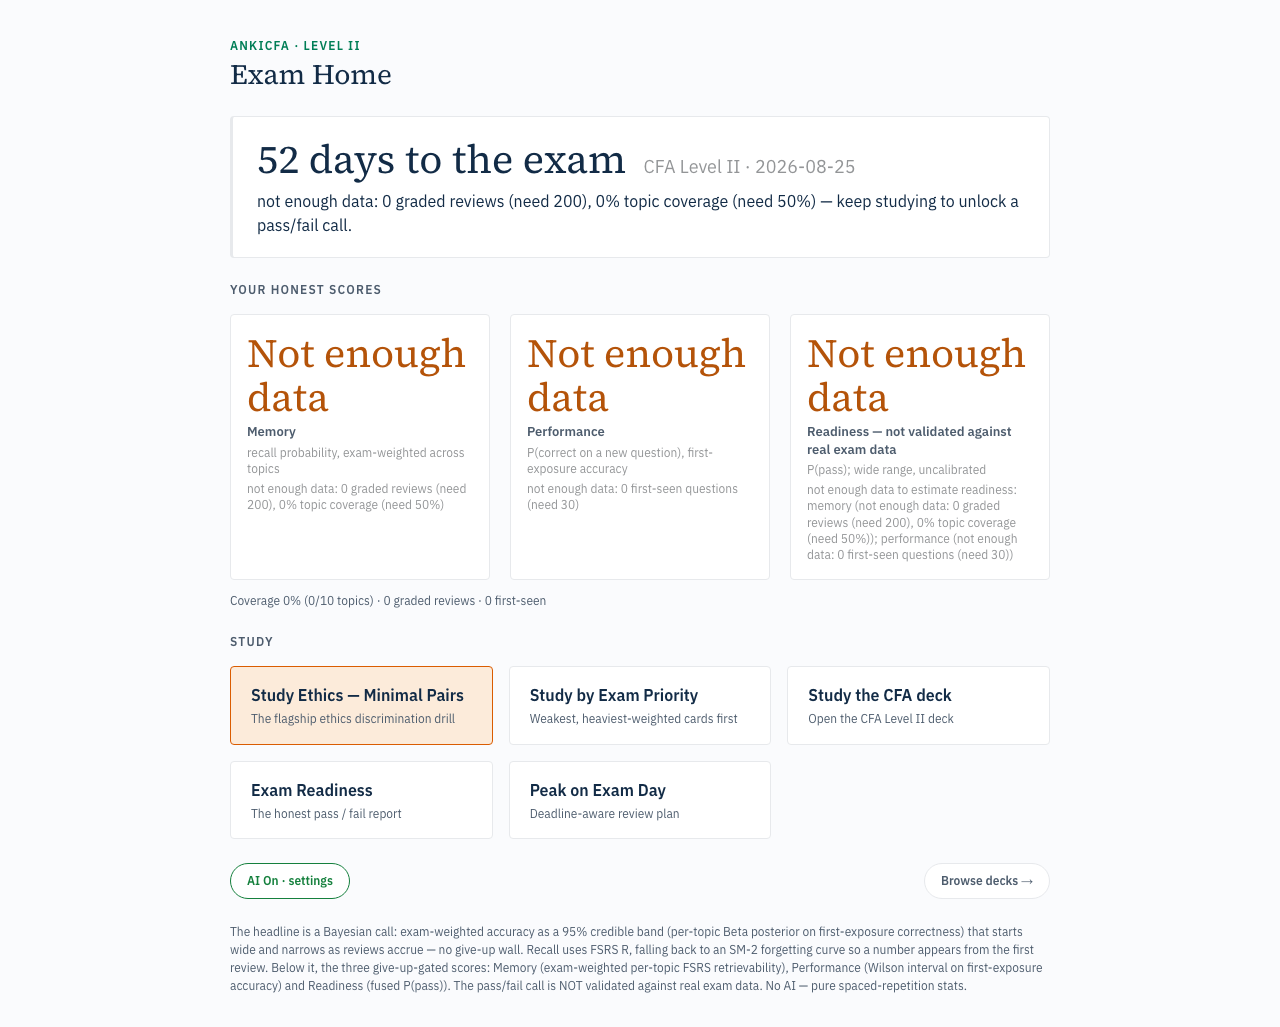
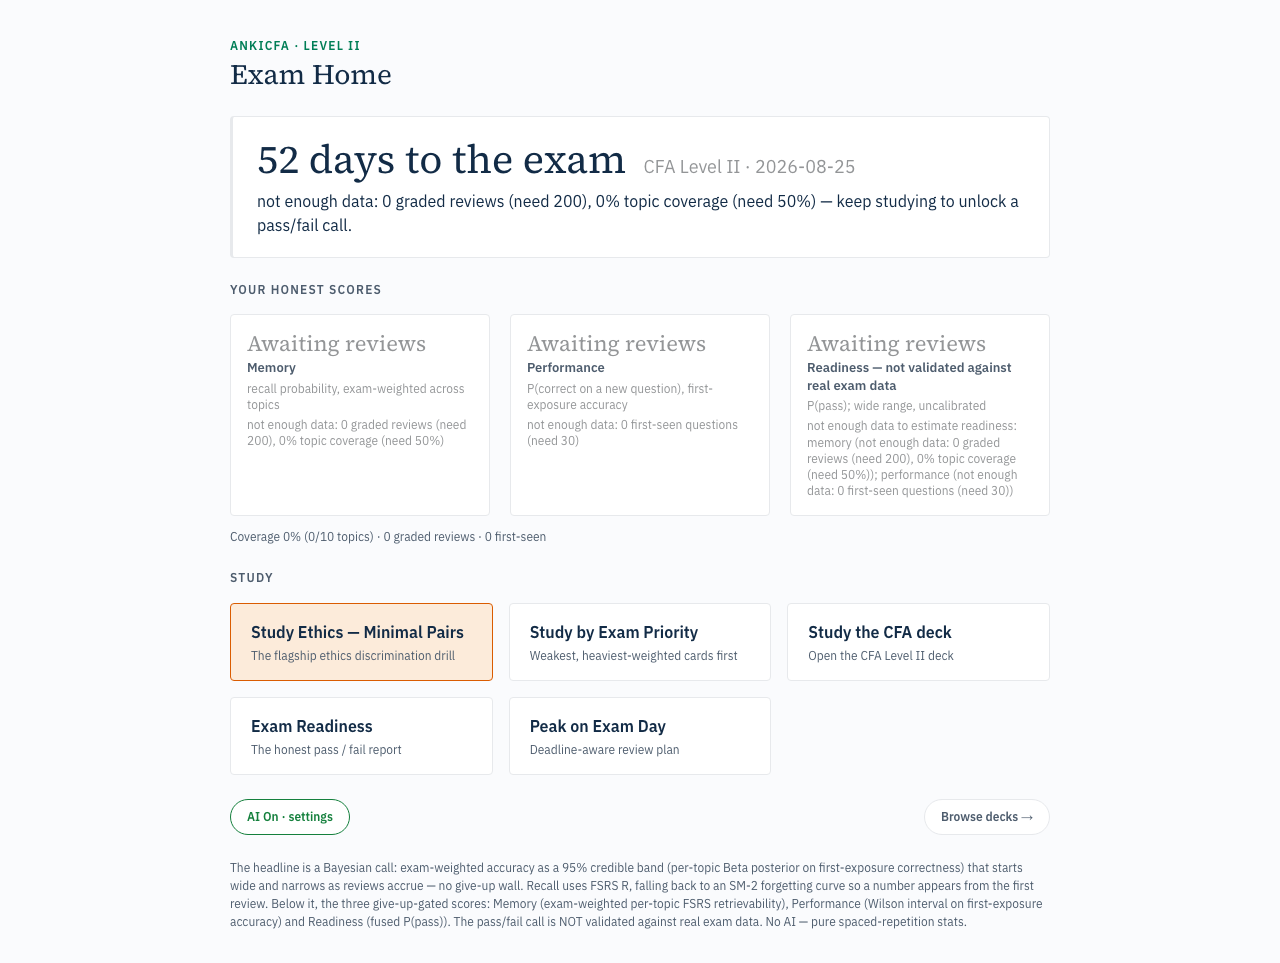
gnhf 26: Resolved all five logged Phase-B Pass-1 desktop MAJOR UI issues (abstain-state hierarchy inversion + warn-orange color collision) by making the empty state a calm muted-grey "Awaiting reviews" said once in the hero, with the peach primary CTA as the single accent; re-captured before/after a

diff --git a/ts/lib/cfa/pages/readiness.ts b/ts/lib/cfa/pages/readiness.ts
@@ -27,14 +27,23 @@ export function rangeText(low: number | null, high: number | null): string {
     return `${pct(low)}–${pct(high)}`;
 }
 
-/** The big serif value for an honest-score StatCard (range, or abstain). */
+/**
+ * The big serif value for an honest-score StatCard: the range when scored, or a
+ * SHORT, calm placeholder while abstaining. The full "not enough data" verdict
+ * is stated once in the hero — the cards stay quiet ("Awaiting reviews") with the
+ * give-up reason in the sub-line, so the empty state never shouts three times.
+ */
 export function bandValue(band: ScoreBand): string {
-    return band.abstain ? "Not enough data" : rangeText(band.rangeLow, band.rangeHigh);
+    return band.abstain ? "Awaiting reviews" : rangeText(band.rangeLow, band.rangeHigh);
 }
 
-/** StatCard value tone — warn keeps the abstain state semantic. */
+/**
+ * StatCard value tone. Abstain is `muted` (quiet faint grey) — an honest ABSENCE
+ * of data, deliberately NOT `warn`-orange, so it does not read as a warning nor
+ * collide with the warm primary-CTA hue (color-semantic separation).
+ */
 export function bandTone(band: ScoreBand): CfaTone {
-    return band.abstain ? "warn" : "neutral";
+    return band.abstain ? "muted" : "neutral";
 }
 
 /** The faint sub-line under a StatCard: the give-up reason, or the midpoint. */

diff --git a/ts/lib/cfa/StatCard.svelte b/ts/lib/cfa/StatCard.svelte
@@ -39,6 +39,7 @@ variant separated by whitespace only (like the real stats band).
         class:tone-pass={tone === "pass"}
         class:tone-fail={tone === "fail"}
         class:tone-warn={tone === "warn"}
+        class:tone-muted={tone === "muted"}
         class:tone-neutral={tone === "neutral"}
     >
         <slot name="value">{value}</slot>
@@ -88,6 +89,14 @@ variant separated by whitespace only (like the real stats band).
             }
             &.tone-warn {
                 color: cfa.$cfa-warn;
+            }
+            // Quiet "awaiting data" absence — calm faint grey AND down-sized
+            // (subtitle, not the 40px display) so the empty state never
+            // out-shouts the real numbers, the countdown, or the CTAs. Reserve
+            // warn-orange for genuine warnings, never for missing data.
+            &.tone-muted {
+                color: cfa.$cfa-faint;
+                font-size: cfa.$cfa-fs-subtitle;
             }
         }
 

diff --git a/ts/lib/cfa/types.ts b/ts/lib/cfa/types.ts
@@ -132,8 +132,12 @@ export interface DeadlinePayload {
 // Component-level helper types.
 // -----------------------------------------------------------------------------
 
-/** Semantic tone shared across components (never washes out the pass/fail triad). */
-export type CfaTone = "neutral" | "pass" | "fail" | "warn";
+/**
+ * Semantic tone shared across components (never washes out the pass/fail triad).
+ * `muted` is the QUIET neutral used for honest "no data yet" states — it must
+ * read as calm absence, never as a warning (reserve `warn` for real cautions).
+ */
+export type CfaTone = "neutral" | "pass" | "fail" | "warn" | "muted";
 
 /** A column definition for the shared `DataTable`. */
 export interface CfaColumn {

diff --git a/ts/lib/cfa/pages/home.ts b/ts/lib/cfa/pages/home.ts
@@ -64,10 +64,13 @@ export interface Countdown {
 /** The exam countdown banner text/tone from the Home payload. */
 export function examCountdown(p: CfaHomePayload): Countdown {
     if (p.daysToExam === null || p.examDate === null) {
+        // A missing exam date is a calm prompt, not a warning: keep it neutral
+        // navy so the loud warn-orange is reserved for a genuinely near deadline
+        // and the warm primary CTA remains the single accent that leads the eye.
         return {
             headline: "Set your exam date",
             sub: "Schedule it from Exam Readiness or Peak on Exam Day.",
-            tone: "warn",
+            tone: "neutral",
             unset: true,
         };
     }

diff --git a/ts/lib/cfa/pages/CfaReadinessPage.svelte b/ts/lib/cfa/pages/CfaReadinessPage.svelte
@@ -12,7 +12,9 @@ desktop dialog shows (qt/aqt/cfa.py):
     hairline/thin-spine card (never a saturated ring), with the accuracy + 95%
     CI lead and the standing "not validated" caveat (or the abstain state),
   * three VALUE-FIRST honest-score StatCards (big serif range on top, muted
-    label below, midpoint sub) — abstain stays warn,
+    label below, midpoint sub) — while abstaining they stay QUIET (muted-grey
+    "Awaiting reviews", the give-up reason in the sub); the "not enough data"
+    verdict is stated ONCE in the hero rather than shouted across the cards,
   * the per-topic recall DataTable (uppercase muted headers, right-aligned
     numerics, warn recall when low/uncovered, "no data" for null ranges),
   * the coverage caption and the explanatory footer in quiet muted text.

diff --git a/proof/friday/UI-CRITIQUE-LOG.md b/proof/friday/UI-CRITIQUE-LOG.md
@@ -34,6 +34,23 @@ Captures (before/after pairs from `ts/tests/e2e/cfa_readiness_render.test.ts`,
   - `03-cfa-readiness-empty-deck.png` — Readiness (D2) for the empty Default deck.
 
 **Fixes applied this pass (re-captured + re-verified, tests green):**
+- **D1-2 / D2-2 FIXED (MAJOR — hierarchy inversion / abstain shouts)** — the
+  three StatCards no longer render "Not enough data" as a huge warn-orange serif.
+  On abstain they now show a **quiet, down-sized muted-grey "Awaiting reviews"**
+  (`bandValue` → "Awaiting reviews", `bandTone` → new `muted` tone = `$cfa-faint`
+  at subtitle 22px, not the 40px display), with the give-up reason in the faint
+  sub-line. The "not enough data — keep studying" verdict is now stated **exactly
+  once**, in the Readiness hero — so absence never out-weighs the countdown, the
+  real numbers, or the CTAs. (before `pass-1-before/` → after `pass-1/`.)
+- **D1-1 / D2-1 FIXED (MAJOR — StatCard dead space)** — with the abstain value
+  down-sized to a short one/two-word line (not a 4-line wrapping headline) the
+  three cards are consistent and the padded/empty look is gone.
+- **D1-3 FIXED (MAJOR — color-semantic collision)** — abstain scores are now
+  `muted` grey, so the warn-orange hue no longer doubles as both "warning" and
+  sits beside the peach primary CTA. Additionally the **unset-exam countdown**
+  (`examCountdown`, Home first-run) is now `neutral` navy rather than `warn`, so
+  the warm **primary CTA is the single accent** that leads the eye and orange is
+  reserved for a genuinely near deadline (≤14 days).
 - **D2-3 FIXED** — `captionText` now omits the "as of …" clause when there is no
   last-review timestamp, so the caption ends cleanly at "… 0 first-seen" instead
   of the unfinished-looking "· as of —". (before `pass-1-before/02` → after
@@ -57,9 +74,9 @@ Readiness screen demonstrably opens and renders with real data.
 ### D1 — CFA Home
 | # | Severity | Element | Issue | Fix |
 |---|----------|---------|-------|-----|
-| D1-1 | MAJOR | 3 score cards | On abstain the cards have large dead vertical space below the give-up text; card heights look padded/empty and the third card wraps to 4 lines while the first two are short — inconsistent internal density. | Let StatCard height hug content in the abstain state (or a fixed compact abstain height); balance the meaning-text line lengths. |
-| D1-2 | MAJOR | "Not enough data" ×3 | The empty-state headline renders as a huge warn-orange serif three times, dominating the page above the exam countdown — hierarchy inversion (the loudest thing is the *absence* of data). | Down-weight the abstain value type (smaller / muted, not warn-orange) so the countdown + CTAs lead; reserve warn-orange for genuine warnings. |
-| D1-3 | MAJOR | peach "Ethics" CTA vs warn-orange | The highlighted primary CTA (peach) shares the warn/orange family used by "Not enough data", so the same hue reads as both "primary action" and "warning" — semantic color collision. | Give the primary CTA a distinct brand/action token separate from the warn token. |
+| D1-1 | MAJOR | 3 score cards | On abstain the cards have large dead vertical space below the give-up text; card heights look padded/empty and the third card wraps to 4 lines while the first two are short — inconsistent internal density. | **FIXED** — abstain value down-sized to a short one/two-word "Awaiting reviews" (not a 4-line headline); cards now consistent. |
+| D1-2 | MAJOR | "Not enough data" ×3 | The empty-state headline renders as a huge warn-orange serif three times, dominating the page above the exam countdown — hierarchy inversion (the loudest thing is the *absence* of data). | **FIXED** — abstain value is now a quiet, down-sized (22px) muted-grey "Awaiting reviews" with the reason in the faint sub; the verdict is said once in the hero. |
+| D1-3 | MAJOR | peach "Ethics" CTA vs warn-orange | The highlighted primary CTA (peach) shares the warn/orange family used by "Not enough data", so the same hue reads as both "primary action" and "warning" — semantic color collision. | **FIXED** — abstain now uses the `muted` grey tone (not warn); unset-exam countdown is now neutral navy so the peach CTA is the single warm accent. |
 | D1-4 | MINOR | study CTA grid | 3-then-2 card grid leaves an empty cell on the right of row 2 — asymmetric. | Balance to a 2×? or center the trailing row / promote a 5th tile. |
 | D1-5 | MINOR | AI pill vs "Browse decks →" | Two footer controls use inconsistent affordances (outline pill vs text-link-with-arrow). | Unify into one control style (both pills, or both links). |
 | D1-6 | MINOR | footer paragraph | Long, low-contrast methodology paragraph; dense first-run microcopy. | Collapse behind a "How scores work" disclosure or trim. |
@@ -67,20 +84,24 @@ Readiness screen demonstrably opens and renders with real data.
 ### D2 — Exam Readiness
 | # | Severity | Element | Issue | Fix |
 |---|----------|---------|-------|-----|
-| D2-1 | MAJOR | 3 score cards | Same dead vertical space as D1-1 (cards sized for value+range, abstain text short). | Shared StatCard abstain-height fix (same token as D1-1). |
-| D2-2 | MAJOR | hero + 3 cards | "Not enough data" appears 4× in loud orange on one screen (hero + 3 cards) — repetitive and alarmist for a normal first-run. | Say it once in the hero; cards show a quiet muted "—/awaiting reviews". |
+| D2-1 | MAJOR | 3 score cards | Same dead vertical space as D1-1 (cards sized for value+range, abstain text short). | **FIXED** — shared StatCard down-sized abstain value (same `bandValue`/`muted` fix as D1-1). |
+| D2-2 | MAJOR | hero + 3 cards | "Not enough data" appears 4× in loud orange on one screen (hero + 3 cards) — repetitive and alarmist for a normal first-run. | **FIXED** — said **once** in the hero; the 3 cards now show a quiet muted "Awaiting reviews" (verified in `pass-1/02`). |
 | D2-3 | MINOR | coverage caption | "as of —" renders an em-dash placeholder → looks unfinished. | **FIXED** — clause omitted when no timestamp (`captionText`). |
 | D2-4 | MINOR | per-topic table sort | The five 0.12-weight areas are not in a stable/canonical order (arbitrary tiebreak). | **FIXED** — deterministic secondary sort by topic name (`topicRows`). |
 | D2-5 | MINOR | 10 identical "no data" rows | Honest but visually flat empty table. | A single-line "No reviews yet — recall appears here after you study" hint above/within the table. |
 
 **Pass-1 desktop verdict:** the CFA web surfaces are already close to premium
 (brand serif lockup, calm palette, real coverage map). The dominant real defects
-are (a) abstain-state hierarchy — the empty state shouts in warn-orange and
-out-weights the countdown/CTAs (D1-2, D2-2), and (b) StatCard dead space +
-color-semantic collision (D1-1/D2-1, D1-3). These MAJORs are queued for the
-Pass-1 fix step before Pass 2. Still to capture this pass: D3 Deadline, D4 Ethics
-reviewer, D6 AI Settings, D7 Connect/Logout, D8 deck browser, D11 chrome (Qt
-surfaces) + a populated (non-abstain) render of D1/D2.
+were (a) abstain-state hierarchy — the empty state shouted in warn-orange and
+out-weighted the countdown/CTAs (D1-2, D2-2), and (b) StatCard dead space +
+color-semantic collision (D1-1/D2-1, D1-3). **All five Pass-1 desktop MAJORs are
+now FIXED, re-captured (`pass-1/`), and re-verified** (`test-e2e` 6/6 green,
+`check:eslint`/svelte/tsc green) — the abstain state is now a calm muted-grey
+"Awaiting reviews" with the verdict stated once in the hero, and the peach
+primary CTA is the single warm accent that leads the eye. Remaining Pass-1
+desktop items are MINORs (D1-4/5/6, D2-5) + surfaces not yet captured this run:
+D3 Deadline, D4 Ethics reviewer, D6 AI Settings, D7 Connect/Logout, D8 deck
+browser, D11 chrome (Qt surfaces) + a populated (non-abstain) render of D1/D2.
 
 ### Still-TODO (desktop, later this pass / next)
 - Populated (real ranges + Bayesian pass/fail call) capture of D1/D2 — needs a

diff --git a/proof/friday/gnhf-speedrun/PROGRESS.md b/proof/friday/gnhf-speedrun/PROGRESS.md
@@ -49,12 +49,20 @@ mobile screen/state) and `proof/friday/UI-CRITIQUE-LOG.md` created.
   pass: D2-3 (caption "as of —" placeholder), D2-4 (deterministic topic sort);
   drive-by un-nested a pre-existing `no-nested-ternary` eslint failure in
   `home.ts` so `check:eslint`/svelte/tsc are green.
+- **ALL 5 Pass-1 desktop MAJORs FIXED (iter 26)** — D1-1/D1-2/D1-3/D2-1/D2-2:
+  the abstain state no longer shouts in warn-orange. Added a `muted` `CfaTone`;
+  `bandValue`→ quiet "Awaiting reviews" + `bandTone`→ `muted` (down-sized 22px
+  faint grey, reason in sub); the "Not enough data" verdict is said **once** in
+  the Readiness hero; the unset-exam Home countdown is now neutral navy so the
+  peach primary CTA is the single warm accent. Re-captured `desktop-ui/pass-1/`
+  (before/after vs `pass-1-before/`); `test-e2e` **6/6 green**,
+  `check:eslint`/svelte/tsc green.
 - **Honesty:** GPT-4o vision CRITIC is UNAVAILABLE (no `OPENAI_API_KEY`/`.env`);
   critique is a labelled structured senior-designer heuristic pass, not a
   fabricated model transcript.
-- **Still TODO this pass:** desktop MAJORs D1-1/D1-2/D1-3/D2-1/D2-2; Qt-chrome
-  surfaces (D5–D8, D10–D12); populated (non-abstain) render; then Passes 2–3;
-  and ALL mobile passes.
+- **Still TODO this pass:** desktop MINORs (D1-4/5/6, D2-5); Qt-chrome surfaces
+  (D5–D8, D10–D12); populated (non-abstain) render; then Passes 2–3; and ALL
+  mobile passes. (Desktop Pass-1 MAJORs all resolved.)
 
 Named must-fix: desktop Readiness renders with data (**functional gate DONE**);
 Connect/Logout redesigned; native-CFA feel everywhere; AnkiDroid CFA UI full